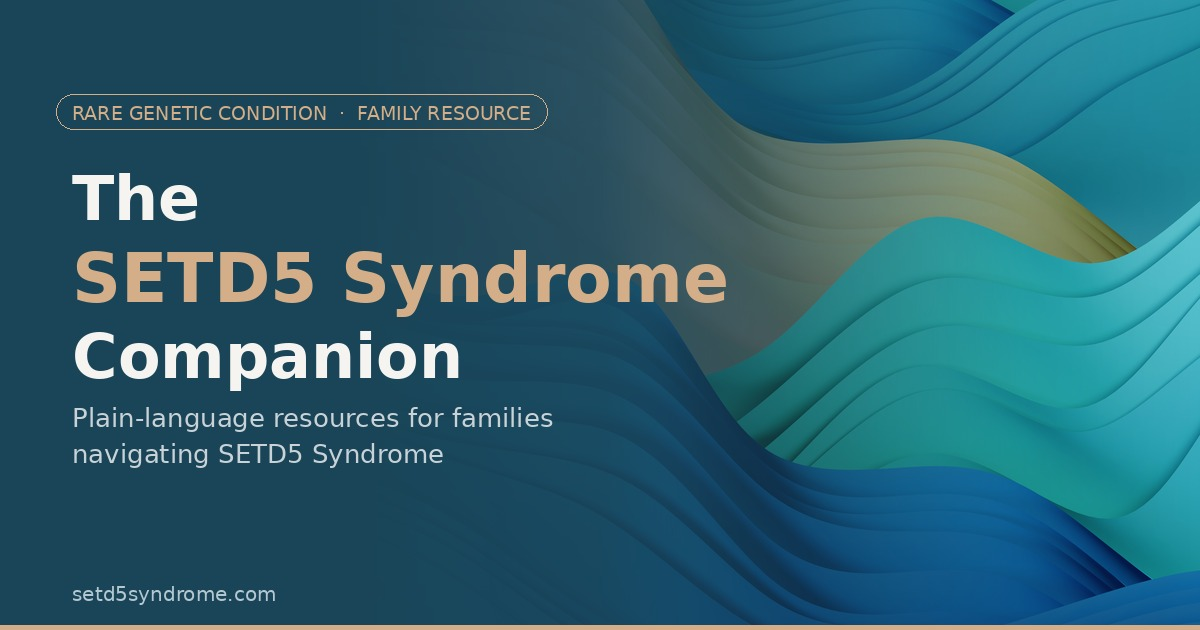
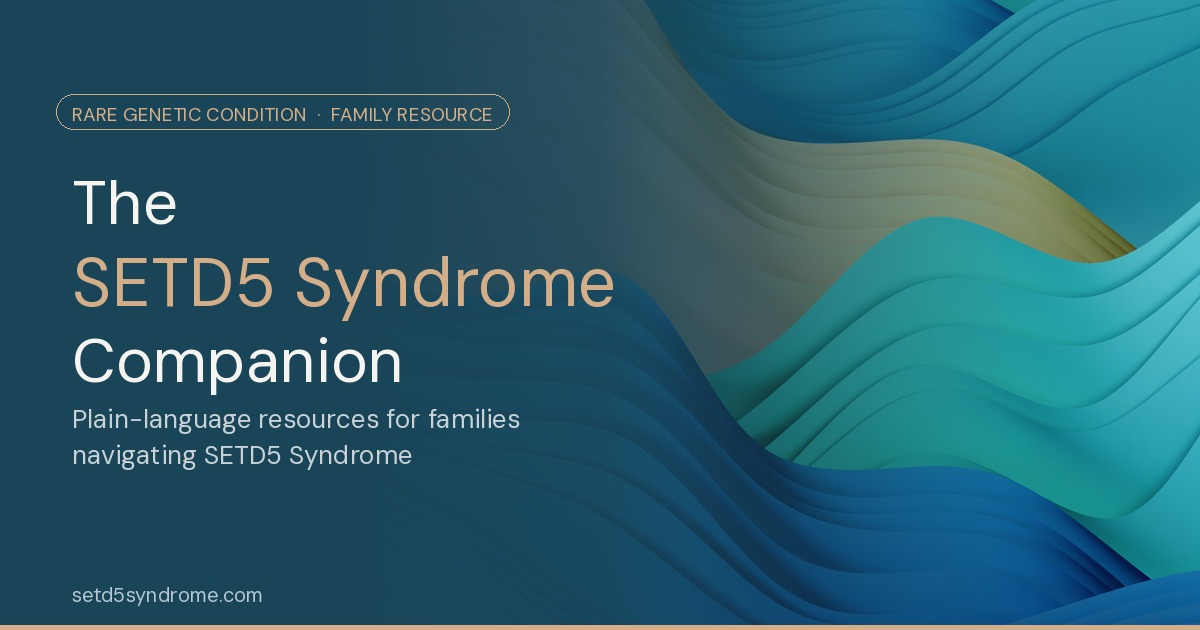
Regenerate social preview in DM Sans; add genetic report callout to genetics tab
- social-preview.jpg: rebuilt using DMSans variable font — matches site typography
- understanding-setd5-syndrome.html: add 'Got your genetic report?' teal callout
  with Read the Guide button as first element in the genetics tab

diff --git a/understanding-setd5-syndrome.html b/understanding-setd5-syndrome.html
@@ -732,6 +732,14 @@
 <div id="tab-genetics" class="tab-panel">
 <div class="page-body">
 
+  <div class="teal-callout" style="display:flex; align-items:center; justify-content:space-between; flex-wrap:wrap; gap:16px;">
+    <div>
+      <span class="callout-label">Got your genetic report?</span>
+      <p style="margin:0;">We have a plain-language guide that walks you through what every section means — classifications, databases, variant types, and what to ask your genetics team.</p>
+    </div>
+    <a href="understanding-genetic-report.html" class="btn-primary" style="white-space:nowrap; flex-shrink:0;">Read the Guide</a>
+  </div>
+
   <p class="section-label">Genetics basics</p>
   <h2 class="section-title" id="sec-variants">Understanding Mutations, Deletions, and Duplications</h2>
 
